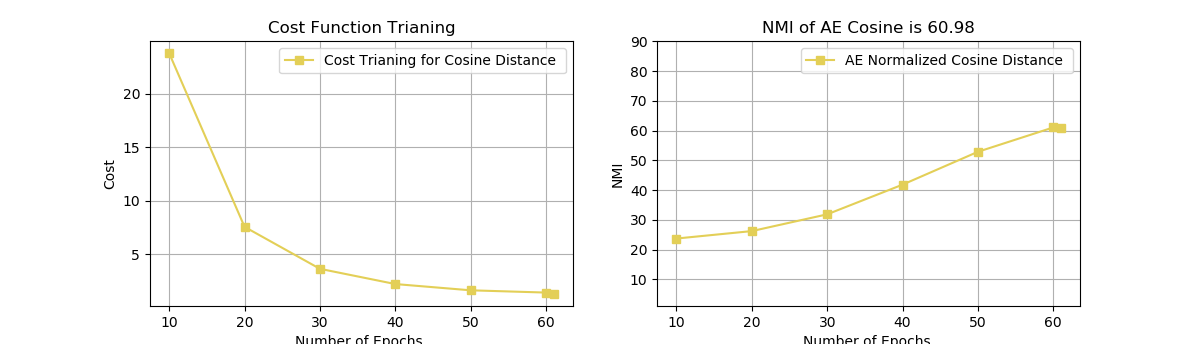
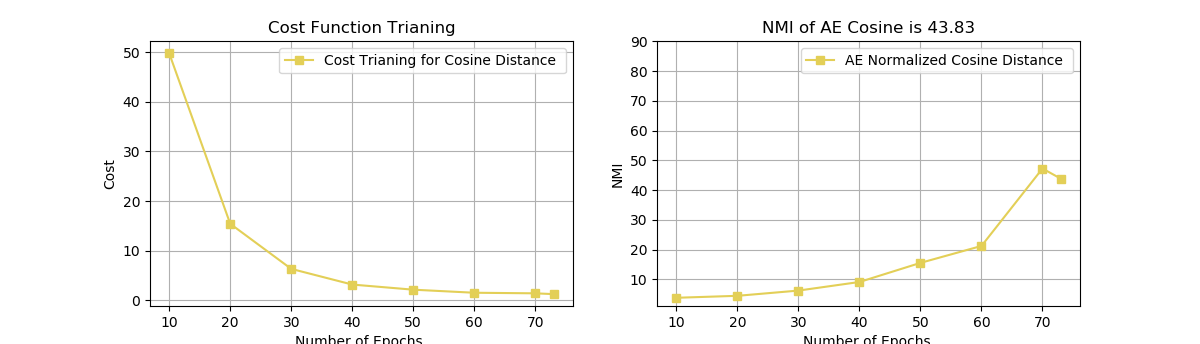
ICP-8

diff --git a/ICP-8/autoencoder_clustering.py b/ICP-8/autoencoder_clustering.py
@@ -76,7 +76,8 @@ class Similarity_Dataset_Iterator():
         return (self.matrix.transpose(), self.labels)
     
 def read_NewsGroup_data(similarity):    
-    categories_3NG = ['comp.graphics', 'rec.sport.baseball', 'talk.politics.guns', 'rec.motorcycles', 'rec.sport.hockey']
+    categories_3NG = ['comp.graphics', 'rec.sport.baseball', 'talk.politics.guns',
+                      'rec.motorcycles', 'rec.sport.hockey']
     dataset = fetch_20newsgroups(subset='train', categories=categories_3NG,
                                  shuffle=True, random_state=42)
     labels = dataset.target[:1000]
@@ -248,9 +249,9 @@ plt.show()
 
 origin_label_cos = np.array(trainSet_cosine.whole_dataset()[1]).astype(int)
 
-colors = [('c', '1'),('g', '2'),('m','3'),('k', '4'),('b','5')]
+colors = [('c', '1'),('g', '2'),('m','3'),('k', '4'),('b','4')]
 plt.figure(figsize=(14, 5))
-for num in range(3):
+for num in range(5):
     plt.legend()
     plt.subplot(1,2,2)
     plt.scatter([ae_codes_cos[:,0][i] for i in range(len(origin_label_cos)) if origin_label_cos[i] == num],
@@ -261,9 +262,9 @@ for num in range(3):
     plt.legend()
 plt.show()
 
-colors = [('c', '1'),('g', '2'),('m','3'),('k', '4'),('b','5')]
+colors = [('c', '1'),('g', '2'),('m','3'),('k', '4'),('b','4')]
 plt.figure(figsize=(14, 5))
-for num in range(3):
+for num in range(5):
     plt.legend()
     plt.subplot(1,2,2)
     plt.scatter([ae_codes_cos[:,0][i] for i in range(len(idx_cos)) if idx_cos[i] == num],
